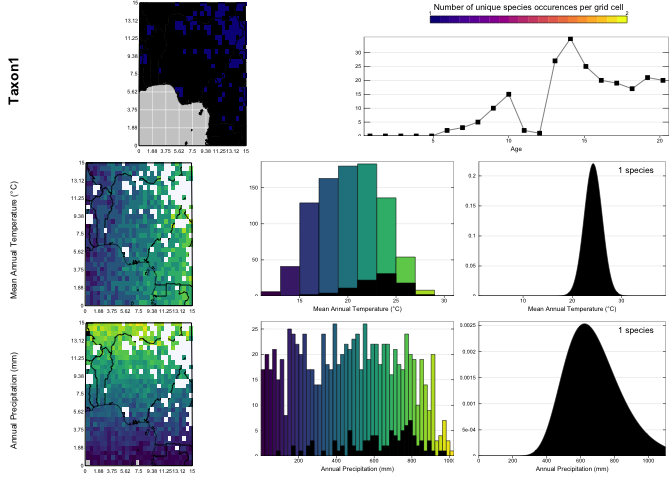
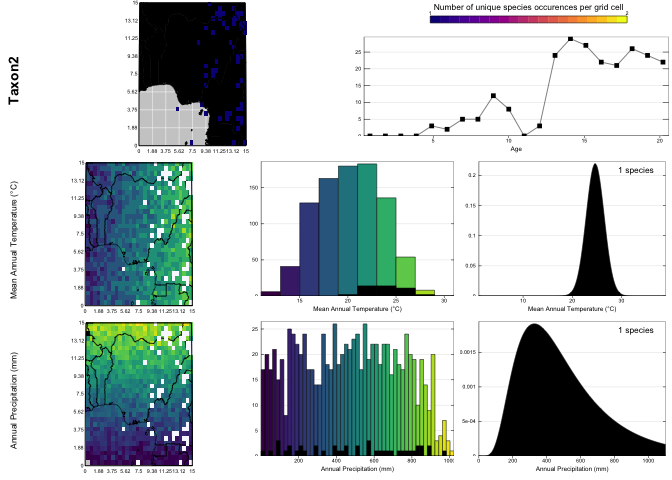
Updated README file

diff --git a/docs/articles/index.html b/docs/articles/index.html
@@ -84,7 +84,7 @@
   </a>
 </li>
 <li>
-  <a href="../theory/theory.html">A bit of theory</a>
+  <a href="../articles/my-vignette2.html">A bit of theory</a>
 </li>
 <li>
   <a href="../articles/get-started.html">Get started</a>

diff --git a/README.md b/README.md
@@ -36,10 +36,18 @@ devtools::install_github("mchevalier2/crestr")
 > modifying existing functions and/or function parameters, but at the
 > moment it cannot be excluded. My apologies for this.
 
+## contact
+
+If you experience any trouble while using this package, or if you think
+of additional functionalities to incorporate to the package, you can
+contact me at <chevalier.manuel@gmail.com> or open a discussion
+[here](https://github.com/mchevalier2/crestr/issues).
+
 ## Example
 
-This is a basic example which shows you how to run crest with randomly
-generated data:
+The following example illustrates the basics of **crestr** using
+pseudo-data (*i.e.* randomly generated data). More elaborate examples
+can be found at <https://mchevalier2.github.io/crestr/>.
 
 ``` r
 library(crestr)
@@ -49,9 +57,9 @@ data(crest_ex_pse)
 data(crest_ex_selection)
 ```
 
-Let’s first have a look at the data. We have 20 fossil samples from
-which 7 taxa have been identified. The data are already expressed in
-percentages.
+Let’s first have a look at the data. The dataset is composed of 20
+fossil samples from which 7 taxa have been identified. The data are
+expressed in percentages.
 
 ``` r
 ## the first 6 samples
@@ -63,9 +71,7 @@ head(crest_ex)
 #> Sample_4   4      0      0     37      0     27     36      0
 #> Sample_5   5      0      3     36      3     18     40      0
 #> Sample_6   6      2      2     25      0     21     50      0
-```
-
-``` r
+##
 ## the structure of the data frame
 str(crest_ex)
 #> 'data.frame':    20 obs. of  8 variables:
@@ -80,7 +86,7 @@ str(crest_ex)
 ```
 
 For each reconstruction, a proxy-species equivalency (‘pse’) table must
-be provided. Here, with the 7 fake taxa, it looks like:
+be provided. Here, with the 7 pseudo-taxa, it looks like:
 
 ``` r
 crest_ex_pse
@@ -94,8 +100,11 @@ crest_ex_pse
 #> 7     3 Randomaceae Randomus  Taxon7    Taxon7
 ```
 
-Finally, one can specify which taxa should be used to reconstruct each
-variable:
+Finally, unique sets of taxa can be specified to reconstruct each
+climate variable. In the example, *bio1* (mean annual temperature) and
+*bio12* (annual precipitation) will be reconstructed. The dataset has
+been designed so that Taxa 1, 2, 3 and 7 are sensitive to *bio1* while
+Taxa 1, 4, 5 and 7 are sensitive to *bio12*.
 
 ``` r
 crest_ex_selection
@@ -109,10 +118,9 @@ crest_ex_selection
 #> Taxon7    1     1
 ```
 
-To illustrate the process, we will reconstruct bio1 (mean annual
-temperature) and bio12 (annual precipitation) from these fake data. The
-description of the different parameters is available in the first
-**vignette**.
+These pseudo data can be provide to the function and provided some
+parameters (see the full vignettes for a detail of these parameters),
+the reconstructions will be processed.
 
 ``` r
 recons <- crest(
@@ -123,8 +131,8 @@ recons <- crest(
 )
 ```
 
-The climate sampled by the data can be assessed graphically using the
-figure
+The climate sampled by the data can be graphically represented for a
+quick assessment of the calibration dataset.
 
 ``` r
 plot_climateSpace(recons)
@@ -132,16 +140,18 @@ plot_climateSpace(recons)
 
 <img src="man/figures/README-plot-climate-space-1.png" width="100%" />
 
-Graphical tools aldo exist to assess which taxa should/could be used for
-each variable
+Additional graphical tools can be used to assess which taxa should/could
+be used for each variable. On the following example, it is clear that
+Taxon2 has a much stronger correlation with *bio1* than to *bio12*,
+hence its selection for *bio1* only.
 
 ``` r
-plot_taxaCharacteristics(recons, taxanames='Taxon1')
+plot_taxaCharacteristics(recons, taxanames='Taxon2')
 ```
 
 <img src="man/figures/README-plot-plot_taxaCharacteristics-1.png" width="100%" />
 
-Finally, the results can be visualised using the plot function and the
+The results can be quickly visualised using the plot function and the
 reconstructed climate values can be accessed from the nested `recons`
 object:
 
@@ -197,6 +207,15 @@ plot(recons, climate = 'bio12', simplify=TRUE, uncertainties=c(0.4, 0.6, 0.8))
 ```
 
 <img src="man/figures/README-plot-2.png" width="100%" />
+
+If satisfying, the results can be directly exported from the R
+environment in a user-friendly spreadsheet.
+
+``` r
+export(recons, loc=getwd(), dataname='crest-test')
+list.files(file.path(getwd(), 'crest-test'))
+#> [1] "bio1"             "bio12"            "crest-test.RData"
+```
 
 ## References
 
